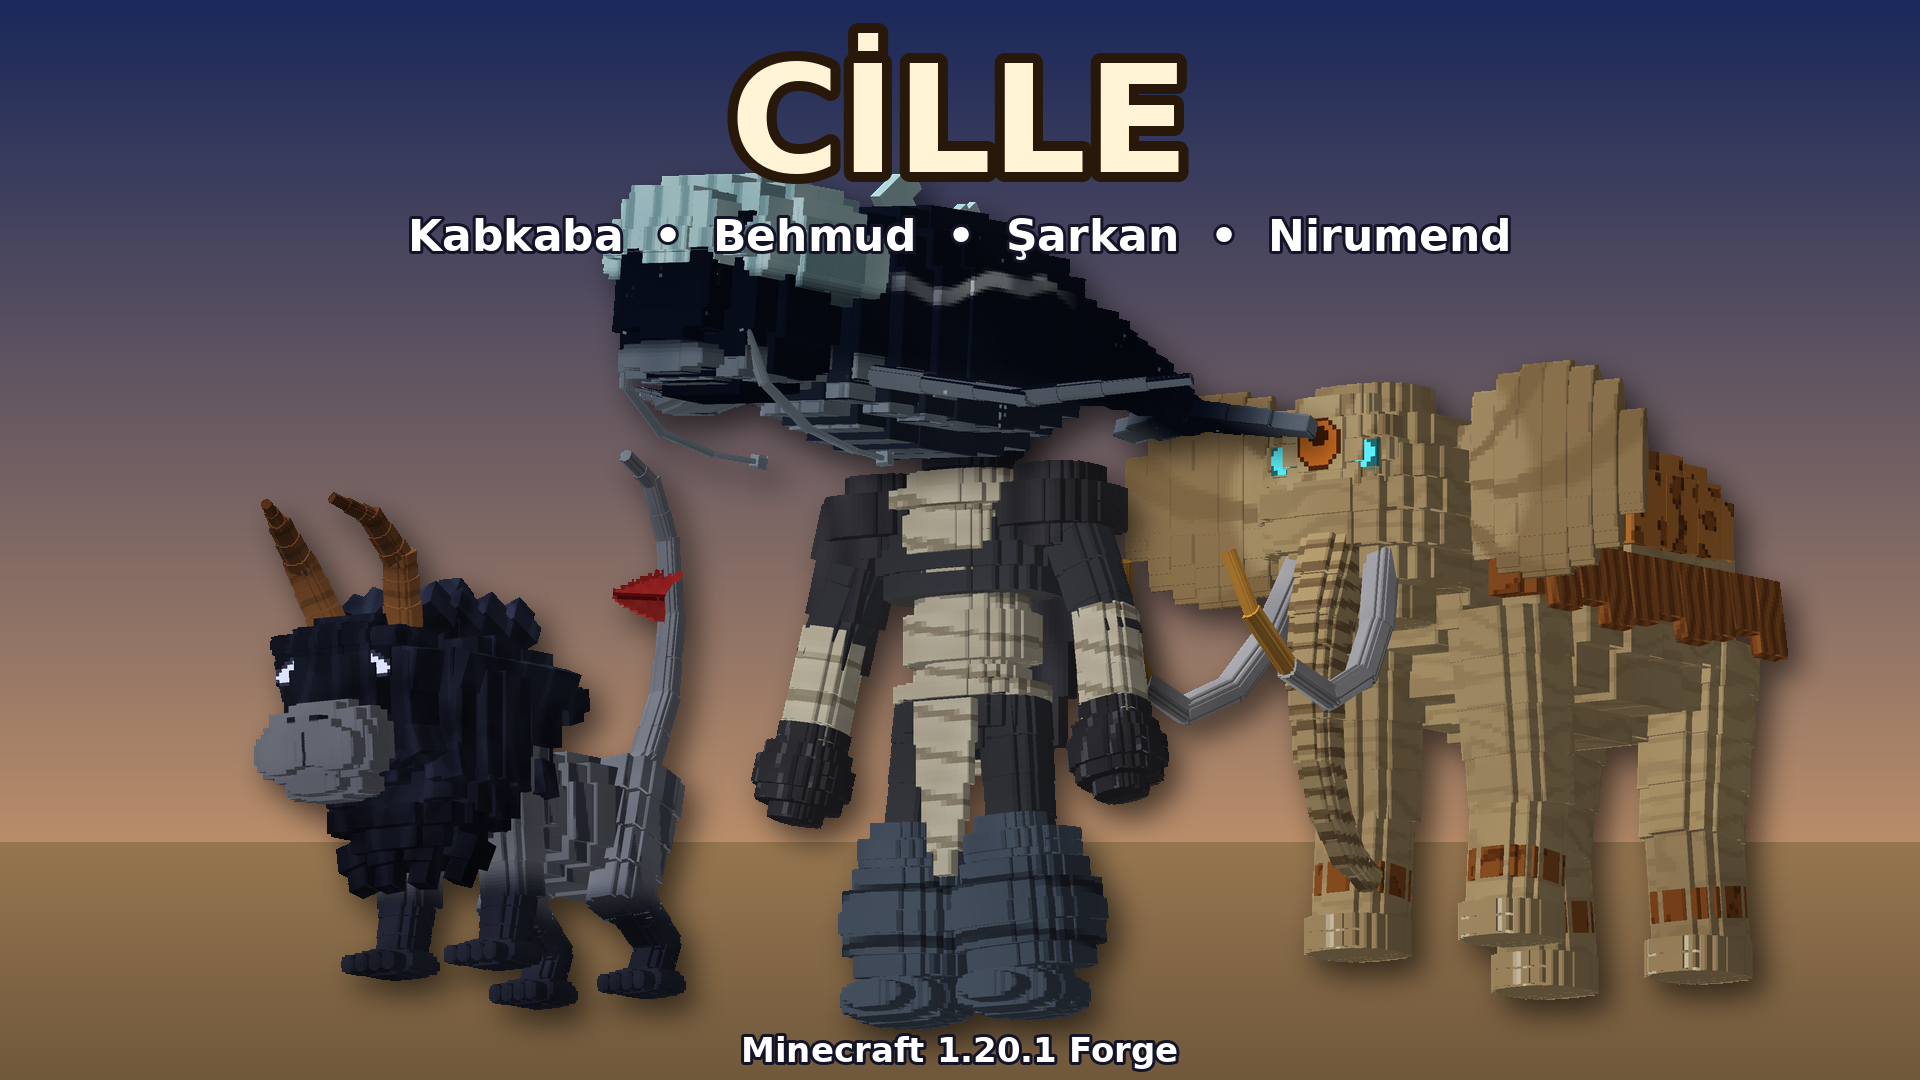
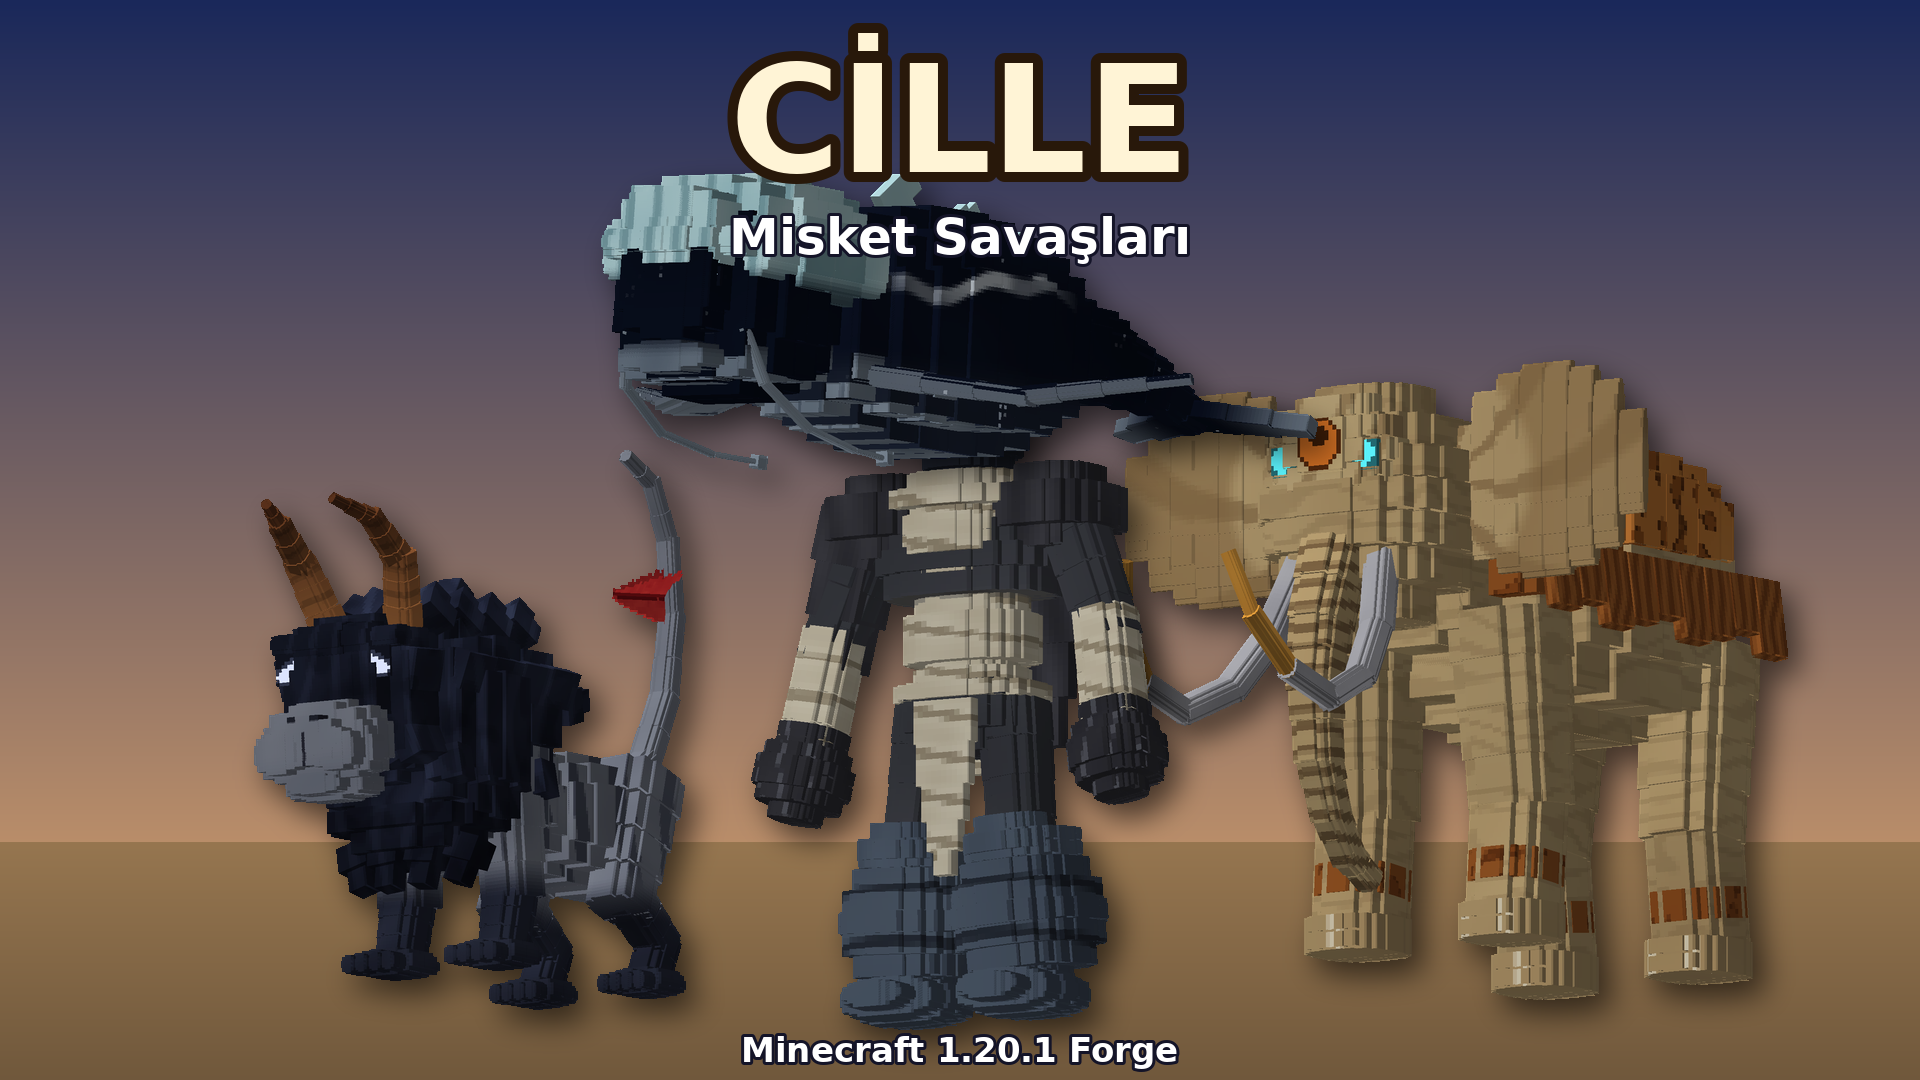
Cille: CurseForge title without creature names
Claude-Session: https://claude.ai/code/session_013CxabgQ3MPHCzBHuy99cPM

Changed region(s): [[0.1875, 0.1833, 0.8125, 0.2444]]

diff --git a/cille/gen/promo.py b/cille/gen/promo.py
@@ -110,7 +110,7 @@ paste(bg, renders['sarkan'], 960, 1030, 660)
 paste(bg, renders['behmud'], 960, 470, 300, maxw=760)
 d = ImageDraw.Draw(bg)
 title(d, 'CİLLE', (960, 120), 150)
-title(d, 'Kabkaba  •  Behmud  •  Şarkan  •  Nirumend', (960, 236), 44, fill=(255, 255, 255), stroke=(20, 20, 40), sw=3)
+title(d, 'Misket Savaşları', (960, 236), 50, fill=(255, 255, 255), stroke=(20, 20, 40), sw=3)
 title(d, 'Minecraft 1.20.1 Forge', (960, 1050), 34, fill=(255, 255, 255), stroke=(20, 20, 40), sw=3)
 bg.convert('RGB').save(os.path.join(OUT, 'kapak_banner.png'))
 
